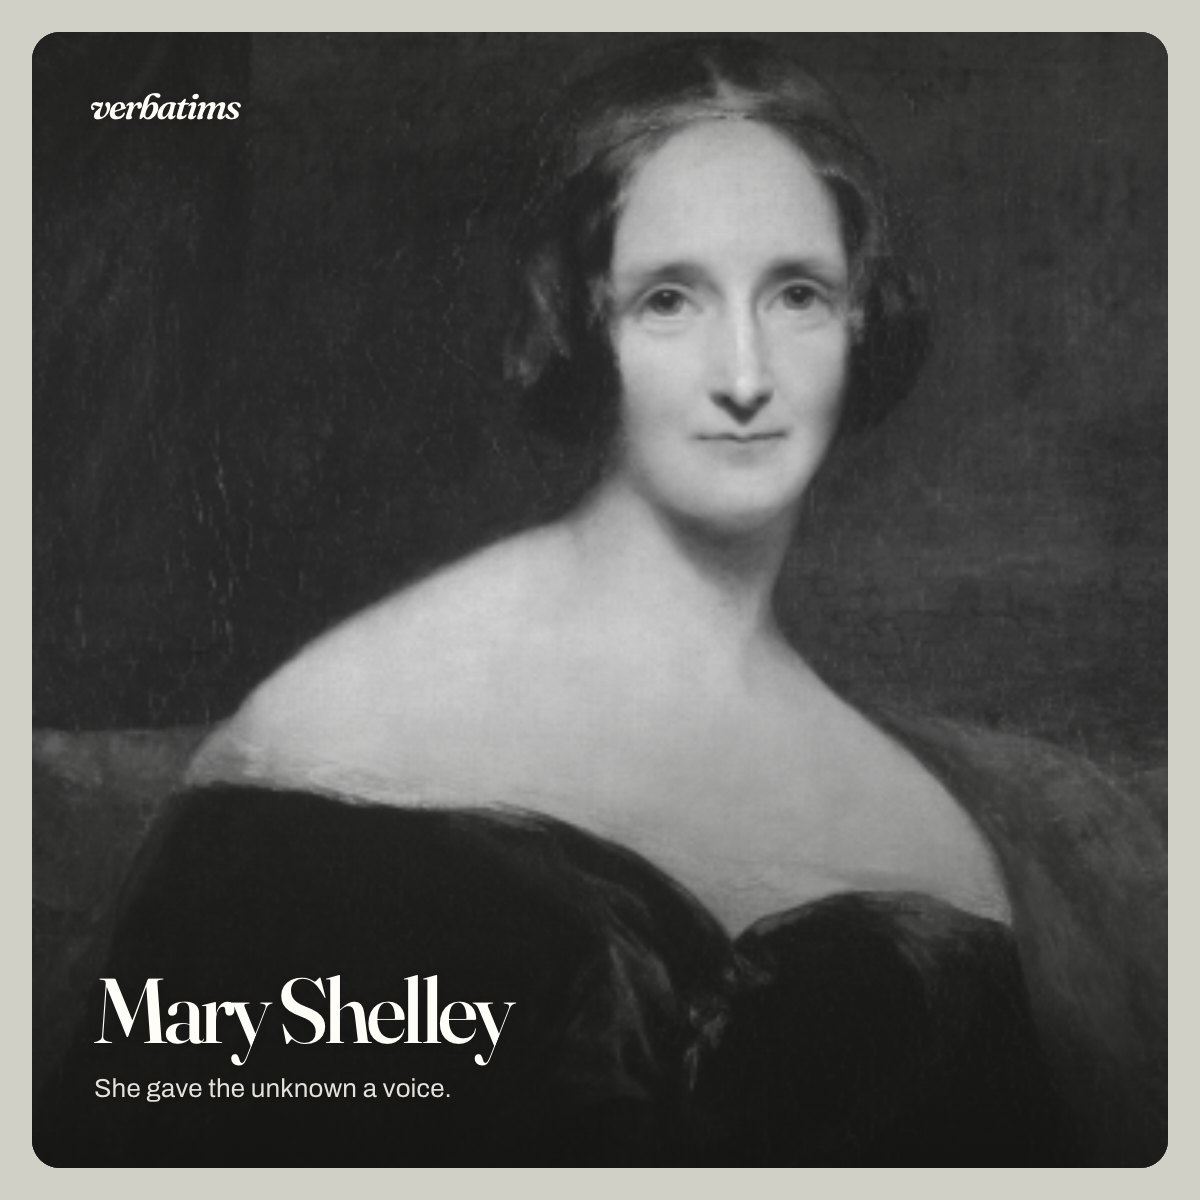
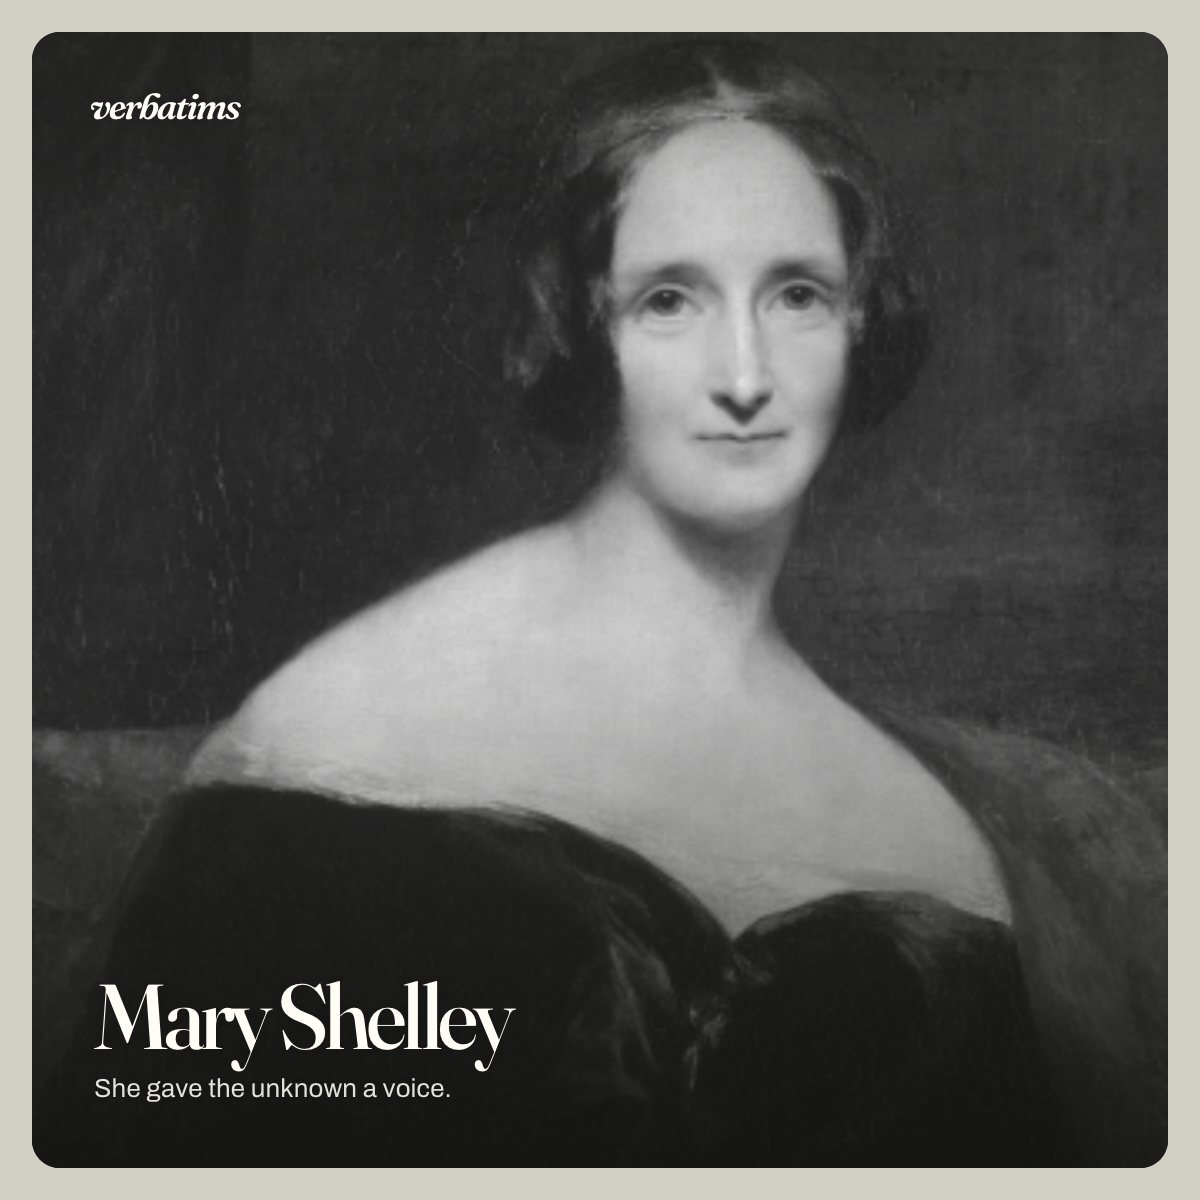
✨ feat(social): add author and reference card templates
Add separate minimal author and work templates with optional dates and phrases, a shared visual style, JSON content examples, and a social render command.

Changed region(s): [[0.0925, 0.8017, 0.4317, 0.8942], [0.3392, 0.8017, 0.37, 0.8325]]

diff --git a/docs/design/social/2026-10-29/frankenstein.html b/docs/design/social/2026-10-29/frankenstein.html
@@ -6,28 +6,15 @@
 <title>Frankenstein — Verbatims social card</title>
 <link rel="preconnect" href="https://fonts.googleapis.com">
 <link rel="preconnect" href="https://fonts.gstatic.com" crossorigin>
-<link href="https://fonts.googleapis.com/css2?family=Archivo:wght@400;500;600&family=Fraunces:ital,opsz,wght@0,9..144,400;0,9..144,500;1,9..144,400;1,9..144,500;1,9..144,600&display=swap" rel="stylesheet">
-<style>
-:root { --stone:#d1d0c5; --paper:#f0eee6; --ink:#1d201b; }
-* { box-sizing:border-box; }
-html,body { width:1200px; height:1200px; margin:0; overflow:hidden; }
-body { background:var(--stone); color:var(--paper); font-family:Archivo,Arial,sans-serif; -webkit-font-smoothing:antialiased; }
-.card { position:relative; width:1200px; height:1200px; padding:32px; }
-figure { position:relative; width:100%; height:100%; margin:0; overflow:hidden; border-radius:28px; background:#272822; }
-figure img { display:block; width:100%; height:100%; object-fit:cover; object-position:center center; filter:grayscale(1) brightness(.88); }
-figure:after { content:""; position:absolute; inset:0; background:linear-gradient(180deg, rgb(18 19 16 / 28%) 0%, transparent 25%, transparent 53%, rgb(18 19 16 / 22%) 68%, rgb(18 19 16 / 82%) 100%); pointer-events:none; }
-.wordmark { position:absolute; z-index:1; top:56px; left:58px; font:italic 600 36px/1 Fraunces,Georgia,serif; letter-spacing:-.06em; color:#fffdf6; text-shadow:0 1px 12px rgb(0 0 0 / 24%); }
-.copy { position:absolute; z-index:1; left:62px; right:62px; bottom:62px; }
-h1 { margin:0; font:500 92px/.98 Fraunces,Georgia,serif; letter-spacing:-.055em; color:#fffdf6; text-shadow:0 2px 18px rgb(0 0 0 / 24%); }
-.phrase { margin:16px 0 0; font-size:26px; line-height:1.35; letter-spacing:.005em; color:rgb(255 253 246 / 88%); text-shadow:0 1px 10px rgb(0 0 0 / 35%); }
-</style>
+<link href="https://fonts.googleapis.com/css2?family=Archivo:wght@400;500;600&family=Fraunces:ital,opsz,wght@0,9..144,400;0,9..144,500;1,9..144,500;1,9..144,400;1,9..144,600&display=swap" rel="stylesheet">
+<link rel="stylesheet" href="../templates/minimal.css">
 </head>
 <body>
-<main class="card" aria-label="Verbatims social card: Frankenstein">
+<main class="card" aria-label="Verbatims work card: Frankenstein">
   <figure>
-    <img src="https://verbatims.cc/blob/images/references/407.jpg" alt="Frontispiece to the 1831 edition of Frankenstein, showing Victor and the creature">
+    <img src="https://verbatims.cc/blob/images/references/407.jpg" alt="Frontispiece to the 1831 edition of Frankenstein, showing Victor and the creature" style="object-position:center center">
     <span class="wordmark">verbatims</span>
-    <div class="copy"><h1>Frankenstein</h1><p class="phrase">A life brought into the world.</p></div>
+    <div class="copy"><h1>Frankenstein</h1><p class="date" hidden></p><p class="phrase">A life brought into the world.</p></div>
   </figure>
 </main>
 </body>

diff --git a/docs/design/social/2026-10-29/mary-shelley.html b/docs/design/social/2026-10-29/mary-shelley.html
@@ -7,27 +7,14 @@
 <link rel="preconnect" href="https://fonts.googleapis.com">
 <link rel="preconnect" href="https://fonts.gstatic.com" crossorigin>
 <link href="https://fonts.googleapis.com/css2?family=Archivo:wght@400;500;600&family=Fraunces:ital,opsz,wght@0,9..144,400;0,9..144,500;1,9..144,400;1,9..144,500;1,9..144,600&display=swap" rel="stylesheet">
-<style>
-:root { --stone:#d1d0c5; --paper:#f0eee6; --ink:#1d201b; }
-* { box-sizing:border-box; }
-html,body { width:1200px; height:1200px; margin:0; overflow:hidden; }
-body { background:var(--stone); color:var(--paper); font-family:Archivo,Arial,sans-serif; -webkit-font-smoothing:antialiased; }
-.card { position:relative; width:1200px; height:1200px; padding:32px; }
-figure { position:relative; width:100%; height:100%; margin:0; overflow:hidden; border-radius:28px; background:#272822; }
-figure img { display:block; width:100%; height:100%; object-fit:cover; object-position:center 24%; filter:grayscale(1) brightness(.88); }
-figure:after { content:""; position:absolute; inset:0; background:linear-gradient(180deg, rgb(18 19 16 / 28%) 0%, transparent 25%, transparent 53%, rgb(18 19 16 / 22%) 68%, rgb(18 19 16 / 82%) 100%); pointer-events:none; }
-.wordmark { position:absolute; z-index:1; top:56px; left:58px; font:italic 600 36px/1 Fraunces,Georgia,serif; letter-spacing:-.06em; color:#fffdf6; text-shadow:0 1px 12px rgb(0 0 0 / 24%); }
-.copy { position:absolute; z-index:1; left:62px; right:62px; bottom:62px; }
-h1 { margin:0; font:500 92px/.98 Fraunces,Georgia,serif; letter-spacing:-.055em; color:#fffdf6; text-shadow:0 2px 18px rgb(0 0 0 / 24%); }
-.phrase { margin:16px 0 0; font-size:26px; line-height:1.35; letter-spacing:.005em; color:rgb(255 253 246 / 88%); text-shadow:0 1px 10px rgb(0 0 0 / 35%); }
-</style>
+<link rel="stylesheet" href="../templates/minimal.css">
 </head>
 <body>
-<main class="card" aria-label="Verbatims social card: Mary Shelley">
+<main class="card" aria-label="Verbatims author card: Mary Shelley">
   <figure>
-    <img src="https://verbatims.cc/blob/images/authors/798.png" alt="Portrait of Mary Shelley by Richard Rothwell, circa 1840">
+    <img src="https://verbatims.cc/blob/images/authors/798.png" alt="Portrait of Mary Shelley by Richard Rothwell, circa 1840" style="object-position:center 24%">
     <span class="wordmark">verbatims</span>
-    <div class="copy"><h1>Mary Shelley</h1><p class="phrase">She gave the unknown a voice.</p></div>
+    <div class="copy"><h1>Mary Shelley</h1><p class="date" hidden></p><p class="phrase">She gave the unknown a voice.</p></div>
   </figure>
 </main>
 </body>

diff --git a/docs/design/social/templates/minimal.css b/docs/design/social/templates/minimal.css
@@ -1,0 +1,13 @@
+:root { --stone:#d1d0c5; --paper:#f0eee6; }
+* { box-sizing:border-box; }
+html,body { width:1200px; height:1200px; margin:0; overflow:hidden; }
+body { background:var(--stone); color:var(--paper); font-family:Archivo,Arial,sans-serif; -webkit-font-smoothing:antialiased; }
+.card { position:relative; width:1200px; height:1200px; padding:32px; }
+figure { position:relative; width:100%; height:100%; margin:0; overflow:hidden; border-radius:28px; background:#272822; }
+figure img { display:block; width:100%; height:100%; object-fit:cover; object-position:center center; filter:grayscale(1) brightness(.88); }
+figure:after { content:""; position:absolute; inset:0; background:linear-gradient(180deg, rgb(18 19 16 / 28%) 0%, transparent 25%, transparent 53%, rgb(18 19 16 / 22%) 68%, rgb(18 19 16 / 82%) 100%); pointer-events:none; }
+.wordmark { position:absolute; z-index:1; top:56px; left:58px; font:italic 600 36px/1 Fraunces,Georgia,serif; letter-spacing:-.06em; color:#fffdf6; text-shadow:0 1px 12px rgb(0 0 0 / 24%); }
+.copy { position:absolute; z-index:1; left:62px; right:62px; bottom:62px; }
+h1 { margin:0; font:500 92px/.98 Fraunces,Georgia,serif; letter-spacing:-.055em; color:#fffdf6; text-shadow:0 2px 18px rgb(0 0 0 / 24%); }
+.date { margin:8px 0 0; color:rgb(255 253 246 / 72%); font-size:16px; line-height:1.25; letter-spacing:.08em; text-transform:uppercase; text-shadow:0 1px 10px rgb(0 0 0 / 35%); }
+.phrase { margin:10px 0 0; font-size:26px; line-height:1.35; letter-spacing:.005em; color:rgb(255 253 246 / 88%); text-shadow:0 1px 10px rgb(0 0 0 / 35%); }

diff --git a/docs/design/social/templates/author.html b/docs/design/social/templates/author.html
@@ -1,0 +1,21 @@
+<!doctype html>
+<html lang="en">
+<head>
+<meta charset="utf-8">
+<meta name="viewport" content="width=1200, initial-scale=1">
+<title>{{DOCUMENT_TITLE}} — Verbatims social card</title>
+<link rel="preconnect" href="https://fonts.googleapis.com">
+<link rel="preconnect" href="https://fonts.gstatic.com" crossorigin>
+<link href="https://fonts.googleapis.com/css2?family=Archivo:wght@400;500;600&family=Fraunces:ital,opsz,wght@0,9..144,400;0,9..144,500;1,9..144,400;1,9..144,500;1,9..144,600&display=swap" rel="stylesheet">
+<link rel="stylesheet" href="../templates/minimal.css">
+</head>
+<body>
+<main class="card" aria-label="Verbatims author card: {{TITLE}}">
+  <figure>
+    <img src="{{IMAGE_SRC}}" alt="{{IMAGE_ALT}}" style="object-position:{{IMAGE_POSITION}}">
+    <span class="wordmark">verbatims</span>
+    <div class="copy"><h1>{{TITLE}}</h1><p class="date"{{DATE_HIDDEN}}>{{DATE}}</p>{{{PHRASE_HTML}}}</div>
+  </figure>
+</main>
+</body>
+</html>

diff --git a/docs/design/social/templates/reference.html b/docs/design/social/templates/reference.html
@@ -1,0 +1,21 @@
+<!doctype html>
+<html lang="en">
+<head>
+<meta charset="utf-8">
+<meta name="viewport" content="width=1200, initial-scale=1">
+<title>{{DOCUMENT_TITLE}} — Verbatims social card</title>
+<link rel="preconnect" href="https://fonts.googleapis.com">
+<link rel="preconnect" href="https://fonts.gstatic.com" crossorigin>
+<link href="https://fonts.googleapis.com/css2?family=Archivo:wght@400;500;600&family=Fraunces:ital,opsz,wght@0,9..144,400;0,9..144,500;1,9..144,500;1,9..144,400;1,9..144,600&display=swap" rel="stylesheet">
+<link rel="stylesheet" href="../templates/minimal.css">
+</head>
+<body>
+<main class="card" aria-label="Verbatims work card: {{TITLE}}">
+  <figure>
+    <img src="{{IMAGE_SRC}}" alt="{{IMAGE_ALT}}" style="object-position:{{IMAGE_POSITION}}">
+    <span class="wordmark">verbatims</span>
+    <div class="copy"><h1>{{TITLE}}</h1><p class="date"{{DATE_HIDDEN}}>{{DATE}}</p>{{{PHRASE_HTML}}}</div>
+  </figure>
+</main>
+</body>
+</html>
